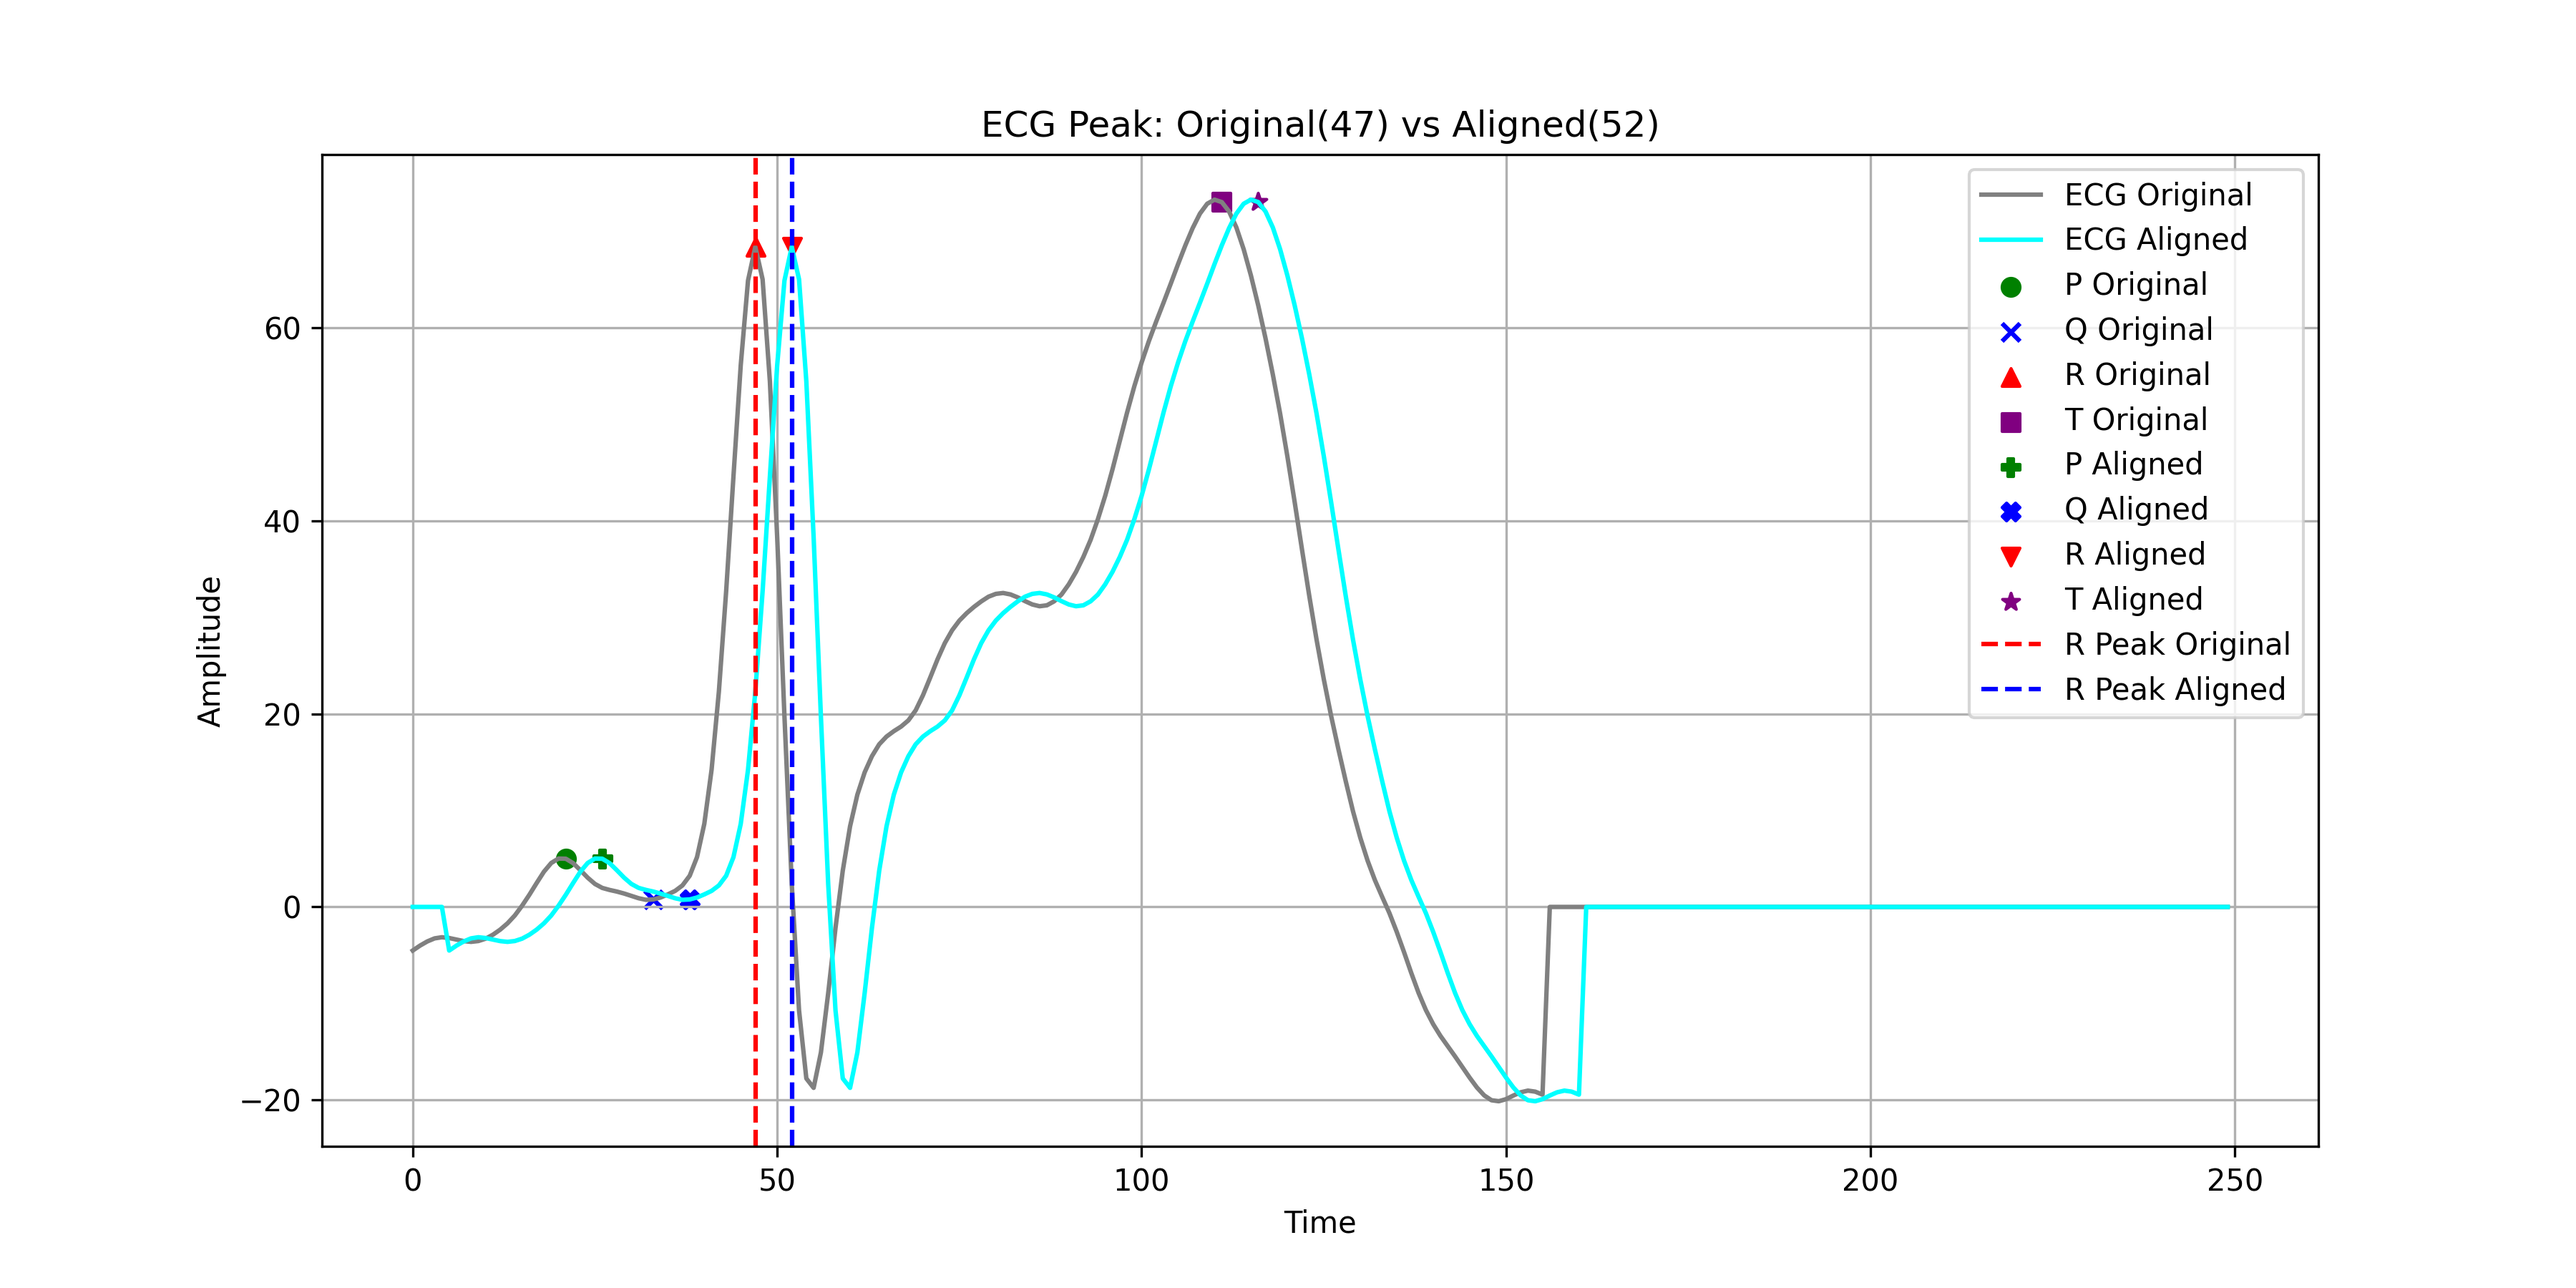
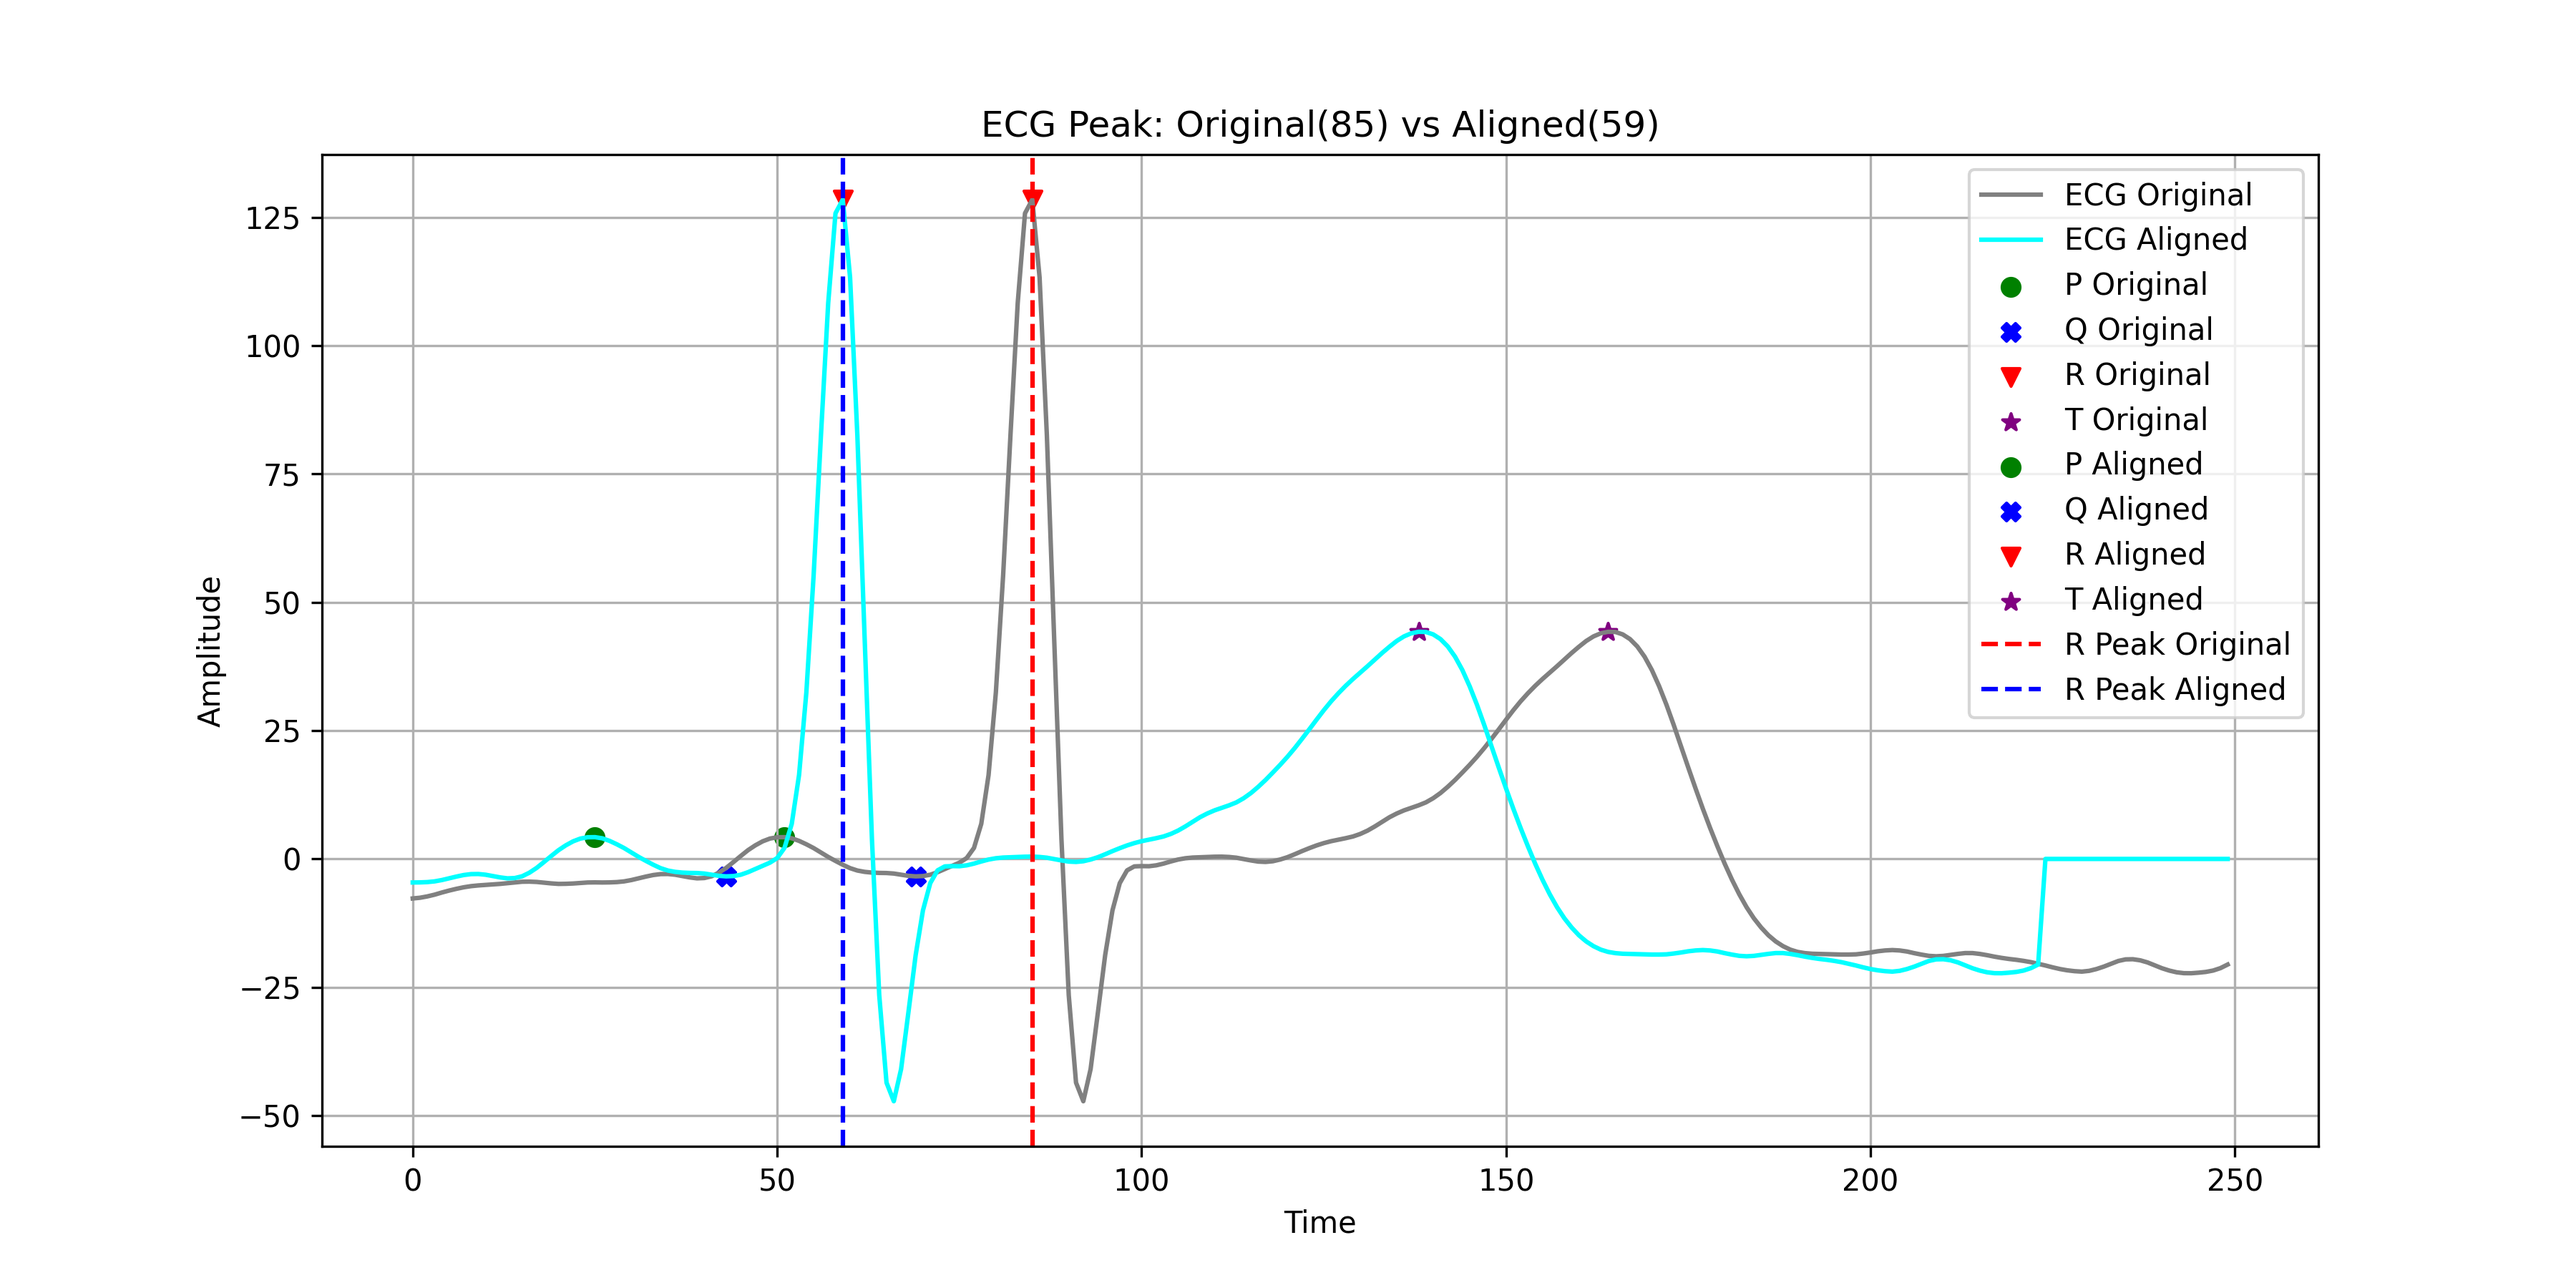
update readme

diff --git a/alignment.py b/alignment.py
@@ -1,5 +1,6 @@
 import os
 import tqdm
+import glob
 import argparse
 import numpy as np
 import pandas as pd
@@ -56,13 +57,43 @@ def show_aligned_demo(row_data, row_data_aligned, sampling_rate=250):
     plt.grid(True)
     plt.savefig("./demo/alignment.png", dpi=300)  # Save with high DPI    
 
+def analyze_average_r_peak_position(processed_ecg_folder):
+    # get the average R peak position
+    print("Analyzing target r peak position...")
+
+    folders = glob.glob(os.path.join(processed_ecg_folder, "*"))
+    r_peak_positions = []
+
+    for folder in tqdm.tqdm(folders):
+        basename = os.path.basename(folder)
+        df = pd.read_pickle(os.path.join(folder, "{}.pkl".format(basename)))
+
+        _r_peak_positions = df['r'].to_list()
+        r_peak_positions += _r_peak_positions
+
+    r_peak_positions = np.array(r_peak_positions)
+    print("R peak's position: ", r_peak_positions)
+    print('R shape: ', r_peak_positions.shape)
+    print("R peak's avg position: ", r_peak_positions.mean())
+    print("R peak's std position: ", r_peak_positions.std())
+    print("====================================")
+
+    return int(r_peak_positions.mean())
+
 if __name__ == "__main__":
     parser = argparse.ArgumentParser("This is the script for aligning the R peaks for each ECG signal")
     parser.add_argument('--ecg', type=str, help='path to the processed ecg data')
+    parser.add_argument('--all_ecg', default="/mnt/data2/mtseng/dataset/SeNSE/TCH_processed", type=str, help='path to the folder that stores all the processed ecg data')
+    parser.add_argument('--r_peak_pos', default=None, type=int, help='target position of the R peak, if not provided, will analyze the average R peak position from all the processed ecg data')
     parser.add_argument('--out_folder', default="/mnt/data2/mtseng/dataset/SeNSE/TCH_aligned", type=str, help='path to the output aligned R peak folder')
     args = parser.parse_args()
+    
+    aligned_r_peak_pos = args.r_peak_pos
+    if aligned_r_peak_pos is None:
+        aligned_r_peak_pos = analyze_average_r_peak_position(args.all_ecg)
 
-    print("Reading data from {}".format(args.ecg))
+    print("Reading data from {} ~".format(args.ecg))
+    print("Target R peak position: {}".format(aligned_r_peak_pos))
     df = pd.read_pickle(args.ecg)
     # I think its already sorted, but just in case
     df.sort_values('Time', inplace=True) 
@@ -85,11 +116,6 @@ if __name__ == "__main__":
     if not os.path.exists(out_dir):
         os.mkdir(out_dir)
 
-    # get the R peak's position
-    aligned_r_peak_pos = int(df['r'].to_numpy().mean())
-    print("R peak's avg position: ", aligned_r_peak_pos)
-
-    
     # create an empty dataframe to store the aligned R peaks, only keep the "glucose", "time" columns that are needed
     sampling_rate = 250
     columns = list(np.arange(sampling_rate))

diff --git a/libs/helper.py b/libs/helper.py
@@ -293,6 +293,7 @@ def plot_alignment_beats(beats, row_indices, out_path, num_samples=200):
     plt.scatter(valts[:,0], valts[:,1], c=color_dict['t'], s=20, label='t')
 
     plt.legend()
+    plt.grid(True)   
     plt.title("Sample Aligned ECG beats")
     plt.savefig(out_path)
 

diff --git a/README.md b/README.md
@@ -71,5 +71,26 @@ Here is an example of the beat extracted.
     <img src="https://github.com/kathanvyas/Sense_glucose/assets/32810188/7a58b591-615a-4440-90b7-f420e8f40ef1"  width="50%">
 </p>
 
+## R peak alignments
+We also provide the script for aligning the R peak for all the ecg data.
+
+Run the following command for alignment:
+```
+python alignment.py --ecg <ecg_file> --all_ecg <all_ecg_folder> --r_peak_pos <target_r_peak_pos> --out_folder <out_folder>
+```
+- **ecg_file**: The file of the processed ecg beats (from the previous section)
+    - Ex: “./SeNSE/TCH_processed/c1s01/c1s01.pkl”.
+- **all_ecg_folder**: The folder storing all the processed ecg beats files
+    - Ex: "./SeNSE/TCH_processed"
+- **target_r_peak_pos**: The position where the aligned R peak should be. If not provided, it will be calculated from the average among all the processed data.
+    - Ex: 59 (Mean: 59.41, Std: 14.82 from all the processed ecg data)
+- **out_folder**: This is the folder where all the final aligned ECG beat data is stored.
+    - Ex: “./SeNSE/TCH_aligned”.
+
+Here are the aligned result:
+- Before alignment vs Post alignment
+![alignment](https://hackmd.io/_uploads/SJR-8U-q6.png)
+- All aligned ecg data
+![ecg_aligned](https://hackmd.io/_uploads/Bk6zoUW56.png)
 
 
